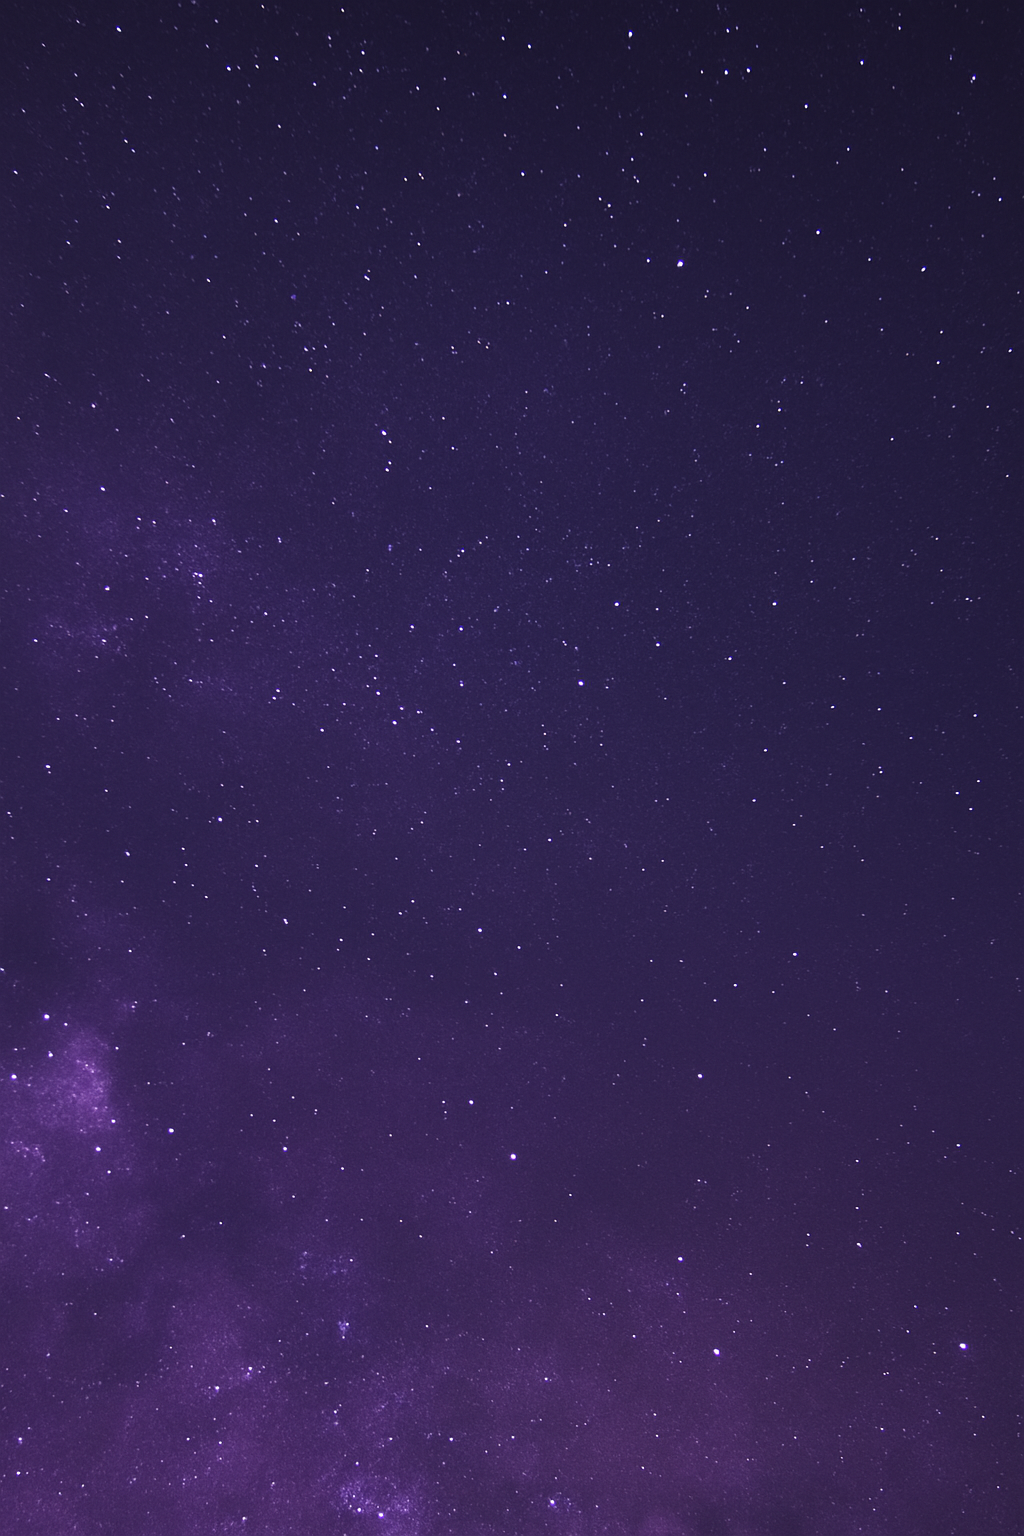
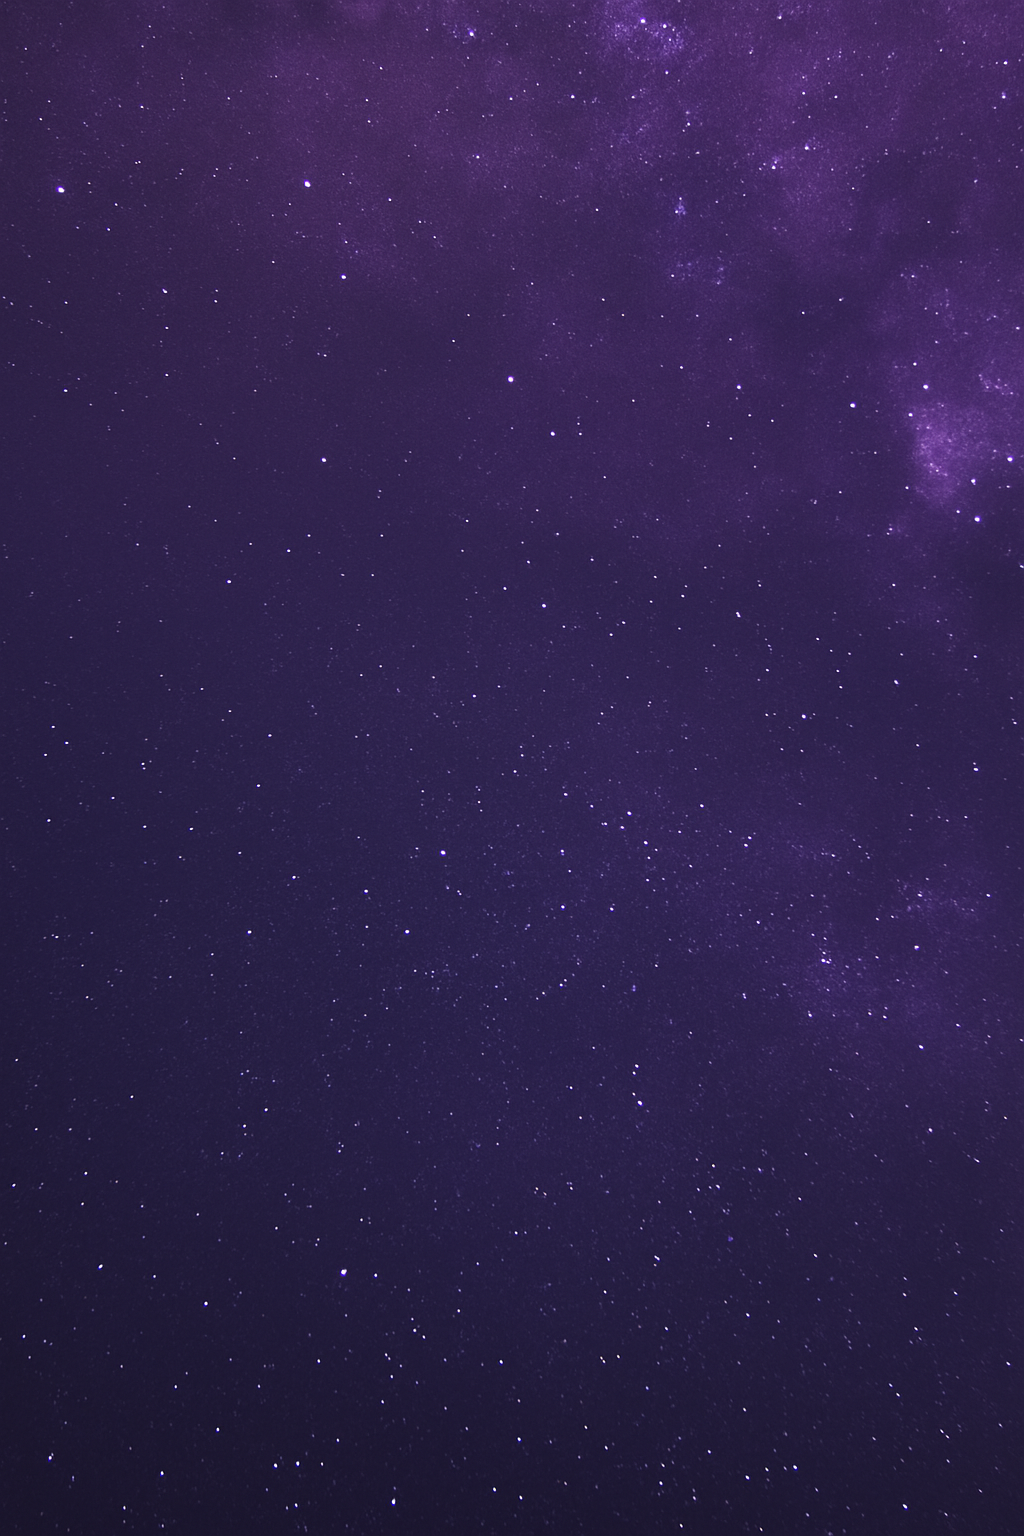
character page 修改

diff --git a/lib/widgets/page_character.dart b/lib/widgets/page_character.dart
@@ -5,9 +5,6 @@ import 'package:app_situational_coach/data/dummy_data.dart';
 import 'animations/twinkling_widget.dart';
 import 'dart:math';
 
-// 這段code有兩個class 我不確定拆完檔案要怎麼歸類 先放一起 之後可以拆
-// character的圖片只有簡單做了一個很陽春的川普（放在painters/character_trump.dart）
-
 class PageCharacter extends StatefulWidget {
   const PageCharacter({super.key});
 
@@ -33,10 +30,14 @@ class _PageCharacterState extends State<PageCharacter> {
         children: [
           // 1. Background
           Container(
-            decoration: const BoxDecoration(
+            decoration: BoxDecoration(
               image: DecorationImage(
-                image: AssetImage('assets/images/home_background.jpg'),
+                image: AssetImage('assets/images/add_background.png'),
                 fit: BoxFit.cover,
+                colorFilter: ColorFilter.mode(
+                  Colors.black.withOpacity(0.4), // 透明度
+                  BlendMode.multiply,
+                ),
               ),
             ),
             child: Column(
@@ -76,16 +77,6 @@ class _PageCharacterState extends State<PageCharacter> {
                 Row(
                   mainAxisAlignment: MainAxisAlignment.center,
                   children: const [
-                    // Icon(Icons.swipe, color: Colors.white70, size: 20),
-                    // SizedBox(width: 8),
-                    // Text(
-                    //   '滑動查看其他角色',
-                    //   style: TextStyle(
-                    //     color: Colors.white70,
-                    //     fontSize: 14,
-                    //     fontWeight: FontWeight.w500,
-                    //   ),
-                    // ),
                     Icon(Icons.touch_app, color: Colors.white70, size: 20),
                     SizedBox(width: 8),
                     Text(
@@ -213,14 +204,14 @@ class _CharacterCardState extends State<CharacterCard> with SingleTickerProvider
         color: const Color.fromARGB(255, 245, 245, 245),
         borderRadius: BorderRadius.circular(24),
         border: widget.highlight
-            ? Border.all(color: const Color.fromARGB(255, 89, 112, 175), width: 3)
+            ? Border.all(color: const Color.fromARGB(255, 162, 136, 205), width: 3)
             : null,
         boxShadow: widget.highlight
             ? [
                 BoxShadow(
-                  color: Colors.blueAccent.withOpacity(0.4),
-                  blurRadius: 20,
-                  spreadRadius: 4,
+                  color: const Color.fromARGB(255, 109, 85, 170).withOpacity(0.4),
+                  blurRadius: 10,
+                  spreadRadius: 3,
                 )
               ]
             : [],
@@ -230,13 +221,13 @@ class _CharacterCardState extends State<CharacterCard> with SingleTickerProvider
         children: [
           const SizedBox(height: 12),
           character.imagePath.contains('trump')
-              ? TrumpCharacter(isSpeaking: widget.highlight)
-              : Image.asset(
-                  character.imagePath,
-                  height: cardHeight * 0.35,
-                  gaplessPlayback: true,
-                  filterQuality: FilterQuality.low,
-                ),
+            ? const TrumpCharacter()
+            : Image.asset(
+                character.imagePath,
+                height: cardHeight * 0.35,
+                gaplessPlayback: true,
+                filterQuality: FilterQuality.low,
+              ),
           const SizedBox(height: 12),
           Text(character.name,
               style: const TextStyle(fontSize: 20, fontWeight: FontWeight.bold)),
@@ -258,14 +249,14 @@ class _CharacterCardState extends State<CharacterCard> with SingleTickerProvider
         color: const Color(0xFFFDFDFD),
         borderRadius: BorderRadius.circular(24),
         border: widget.highlight
-            ? Border.all(color: const Color.fromARGB(255, 89, 112, 175), width: 3)
+            ? Border.all(color: const Color.fromARGB(255, 162, 136, 205), width: 3)
             : null,
         boxShadow: widget.highlight
             ? [
                 BoxShadow(
-                  color: Colors.blueAccent.withOpacity(0.4),
-                  blurRadius: 20,
-                  spreadRadius: 4,
+                  color: const Color.fromARGB(255, 234, 226, 254).withOpacity(0.4),
+                  blurRadius: 10,
+                  spreadRadius: 3,
                 )
               ]
             : [],

diff --git a/lib/widgets/painters/character_trump.dart b/lib/widgets/painters/character_trump.dart
@@ -1,63 +1,57 @@
+import 'dart:async';
 import 'package:flutter/material.dart';
-import 'package:rive/rive.dart';
 
 class TrumpCharacter extends StatefulWidget {
-  final bool isSpeaking;
-  const TrumpCharacter({super.key, required this.isSpeaking});
+  const TrumpCharacter({super.key});
 
   @override
   State<TrumpCharacter> createState() => _TrumpCharacterState();
 }
 
 class _TrumpCharacterState extends State<TrumpCharacter> {
-  Artboard? _artboard;
-  StateMachineController? _controller;
-  SMITrigger? _lipsyncTrigger;
-  SMIInput<bool>? _emotionToggle;
+  final List<String> _imagePaths = [
+    'assets/images/trump_1.png',
+    'assets/images/trump_2.png',
+    'assets/images/trump_1.png',
+    'assets/images/trump_2.png',
+    'assets/images/trump_3.png',
+    'assets/images/trump_4.png',
+    'assets/images/trump_3.png',
+    'assets/images/trump_4.png',
+    'assets/images/trump_5.png',
+    'assets/images/trump_5.png',
+    'assets/images/trump_5.png',
+  ];
+  int _currentIndex = 0;
+  Timer? _timer;
 
   @override
   void initState() {
     super.initState();
+    _startImageSwitchTimer();
   }
 
-  void _onRiveInit(Artboard artboard) {
-    final controller = StateMachineController.fromArtboard(
-      artboard,
-      'State Machine 1', // 如果你的 State Machine 名稱不同請修改這行
-    );
-    if (controller != null) {
-      artboard.addController(controller);
+  void _startImageSwitchTimer() {
+    _timer = Timer.periodic(const Duration(milliseconds: 300), (_) {
       setState(() {
-        _artboard = artboard;
-        _controller = controller;
-        _lipsyncTrigger = controller.findSMI('demo lipsync') as SMITrigger?;
-        _emotionToggle = controller.findInput<bool>('toEmotion2');
+        _currentIndex = (_currentIndex + 1) % _imagePaths.length;
       });
-
-      // 初始化表情為 emotion 1
-      _emotionToggle?.value = false;
-    }
+    });
   }
 
   @override
-  void didUpdateWidget(covariant TrumpCharacter oldWidget) {
-    super.didUpdateWidget(oldWidget);
-    if (widget.isSpeaking && _lipsyncTrigger != null) {
-      _lipsyncTrigger?.fire();
-    }
+  void dispose() {
+    _timer?.cancel();
+    super.dispose();
   }
 
   @override
   Widget build(BuildContext context) {
-    return SizedBox(
-      height: 180,
-      child: _artboard == null
-          ? RiveAnimation.asset(
-              'assets/character_man.riv',
-              fit: BoxFit.contain,
-              onInit: _onRiveInit,
-            )
-          : Rive(artboard: _artboard!, fit: BoxFit.contain),
+    return Image.asset(
+      _imagePaths[_currentIndex],
+      height: 170,
+      gaplessPlayback: true,
+      filterQuality: FilterQuality.high,
     );
   }
 }
